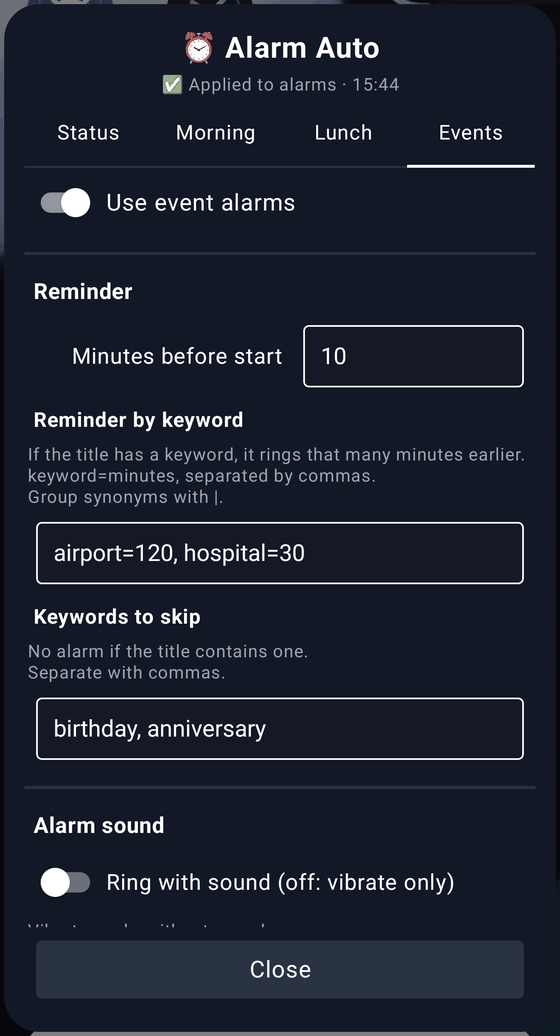
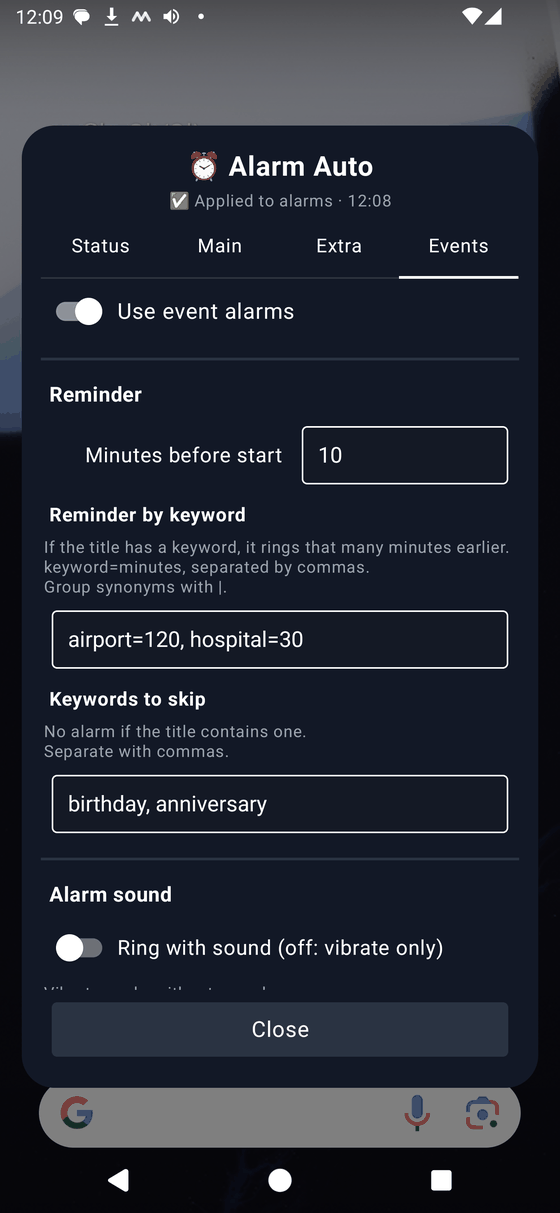
docs: Alarm Auto feature tour GIF, renamed tabs, widget FAQ
- Alarm Auto: one 70 s GIF (status → main/extra/events tabs → saving a
  calendar event creates the one-time alarm in Turbo Alarm by itself),
  new screenshots (ko/en) with the renamed tabs (Status/Main/Extra/Events)
  and one-time alarm names that carry the event start time.
- FAQ: widgets reconnect by themselves after an update.

diff --git a/docs/GUIDE.ko.md b/docs/GUIDE.ko.md
@@ -90,15 +90,17 @@
 
 **Turbo Alarm** 앱의 알람을 요일·캘린더·공휴일에 맞춰 알아서 켜고 끄고 만들어요. 필요: Turbo Alarm 앱, **캘린더** 권한. 캘린더(구글·삼성)와 공휴일 캘린더는 폰마다 알아서 골라요.
 
+실제로 쓰는 모습이에요(기다리는 부분만 잘라 냄): ① 타일로 열어 **현황** → ② **기본** 탭에서 일요일을 켜고 18:00으로 바꾸면 현황과 Turbo Alarm에 바로 반영 → ③ **추가** 탭에서 추가 알림을 켜고 [지금 울려보기] → ④ **일정** 탭 → ⑤ **캘린더에 일정(내일 10:00 치과 예약)을 저장하면** 현황에 일정 알람이 뜨고, Turbo Alarm에 **"(일회성)10:00 치과 예약"** 알람이 10분 전(9:50)으로 저절로 만들어져요.
+
+<img src="img/ko/alarm_tour.gif" width="360">
+
 ### 처음 설정
 
 1. Turbo Alarm이 없으면 창을 열 때 설치 안내가 떠요 → [설치하기]로 Play 스토어에서 설치하고, Turbo Alarm을 한 번 열어 첫 안내를 넘기고 알림 권한을 허용해요.
-2. **아침** 탭의 **알람 이름**(기본 "출근 알람"): 매크로는 Turbo Alarm에서 이 이름의 알람을 켜고 끄고 시각을 바꿔요. 처음에 설정 창을 한 번 열었다 **닫으면** Turbo Alarm에 이 이름의 아침 알람을 만들어 줘요(Turbo Alarm을 나중에 깔아도 그 뒤 창을 닫으면 만들어요). 이름을 바꾸면 새 이름으로 다시 만들고 예전 것은 지워요. 이름은 **이 칸에서만** 바꿔 주세요 — Turbo Alarm 앱에서 바꾸거나 지우면 매크로가 그 알람을 찾지 못해요('아침 알람을 확인해 주세요' 알림). 그럴 땐 아침 탭의 **[Turbo에 다시 만들기]**를 누르면 이 이름으로 다시 만들어요.
-3. **아침** 탭: 요일별 켜기·시각(24시간제), 알람 소리·음량·진동, 쉬는 날 키워드(예: 연차, 휴가 — 그날은 아침·점심 알람을 꺼요), 공휴일에도 끄기, 휴일근무 키워드(그날은 일정 몇 분 전에 울림).
-4. **점심** 탭: 평일·휴일근무 날 시각(초 단위), 회사 안에 있을 때만 울리기(회사에서 [지금 위치를 회사로 지정]), [지금 울려보기].
+2. **기본** 탭의 **기본 알람 이름**(기본값 "출근 알람"): 매크로는 Turbo Alarm에서 이 이름의 알람을 켜고 끄고 시각을 바꿔요. 처음에 설정 창을 한 번 열었다 **닫으면** Turbo Alarm에 이 이름의 기본 알람을 만들어 줘요(Turbo Alarm을 나중에 깔아도 그 뒤 창을 닫으면 만들어요). 이름을 바꾸면 새 이름으로 다시 만들고 예전 것은 지워요. 이름은 **이 칸에서만** 바꿔 주세요 — Turbo Alarm 앱에서 바꾸거나 지우면 매크로가 그 알람을 찾지 못해요('기본 알람을 확인해 주세요' 알림). 그럴 땐 기본 탭의 **[Turbo에 다시 만들기]**를 누르면 이 이름으로 다시 만들어요.
+3. **기본** 탭: 요일별 켜기·시각(24시간제), 알람 소리·음량·진동, 쉬는 날 키워드(예: 연차, 휴가 — 그날은 기본 알람·추가 알림을 꺼요), 공휴일에도 끄기, 휴일근무 키워드(그날은 일정 몇 분 전에 울림).
+4. **추가** 탭(추가 알림 — 점심시간처럼 하루 한 번 더 알릴 때): 평일·휴일근무 날 시각(초 단위), 정한 장소에 있을 때만 울리기(그 장소에서 [지금 위치를 장소로 지정]), [지금 울려보기].
 5. **일정** 탭: 일정 몇 분 전, 키워드별 미리알림(예: 공항|비행기=120, 병원=30), 알람을 만들지 않을 키워드, 일정 알람 소리.
-
-<img src="img/ko/alarm_turbo.png" width="360">
 
 <img src="img/ko/alarm_morning.png" width="280"> <img src="img/ko/alarm_lunch.png" width="280">
 
@@ -106,17 +108,15 @@
 
 ### 쓰는 법
 
-- 설정을 바꾸면 1~2초 뒤 Turbo Alarm에 바로 적용돼요. **현황** 탭에서 다음 아침 알람과 7일 미리보기를 확인해요.
-- 일정 알람은 울리기 24시간 전에 Turbo Alarm에 "(일회성)시각 제목"으로 만들어지고, 일정이 바뀌면 같이 바뀌거나 지워져요.
+- 설정을 바꾸면 1~2초 뒤 Turbo Alarm에 바로 적용돼요. **현황** 탭에서 다음 기본 알람과 7일 미리보기, 추가 알림·일정 알람을 확인해요.
+- 일정 알람은 울리기 24시간 전에 Turbo Alarm에 **"(일회성)일정 시작 시각 제목"**으로 만들어지고(울리는 시각은 미리알림만큼 앞 — 10:00 일정을 10분 전에 알리면 9:50에 울림), 일정이 바뀌면 같이 바뀌거나 지워져요. 울린 일회성 알람은 다 끄면 지워져요.
 - 일정 메모에 "13시 출발", "40분 전에 알려줘", "1시간 전 준비"처럼 적으면 그 시각에 맞춰요.
 
-<img src="img/ko/alarm_status.png" width="280"> <img src="img/ko/turbo_list.png" width="280">
+<img src="img/ko/alarm_status.png" width="280"> <img src="img/ko/alarm_turbo.png" width="280">
 
-주 기능은 **캘린더 일회성 알람**이에요. 캘린더에 일정을 넣고 메모에 "15시 출발"처럼 적으면 그 시각에 맞춰, 현황에 뜨고 Turbo Alarm에 "(일회성)…" 알람으로 실제로 만들어져요.
+메모로 시각을 정하는 예: 16:00 "거래처 미팅"의 메모에 "15시 출발"이라고 적으면 15:00에 울리는 일회성 알람이 만들어져요.
 
 <img src="img/ko/alarm_calendar.png" width="280"> <img src="img/ko/alarm_calday.png" width="280">
-
-<img src="img/ko/alarm_schedule.gif" width="360">
 
 ## 6. 🧩 MD 도우미 (선택) — 설치와 Play 프로텍트 우회
 
@@ -182,5 +182,6 @@ MacroDroid의 몇몇 기능(보안 설정 쓰기, 로그캣 트리거, `dumpsys`
 
 - **창이 안 떠요**: MacroDroid 첫 화면의 스위치가 켜져 있는지, 매크로가 켜져 있는지 확인해 주세요.
 - **타일·위젯 이름이 한국어예요**(영어 폰): 이름이 고정이라 그래요. 아이콘(알람·말풍선·자동차)으로 구분해 주세요.
+- **업데이트 뒤 위젯이 안 눌려요**: 2026.10.04 판부터는 업데이트하고 몇 초 안에 위젯이 저절로 다시 이어져요. 그 판으로 올리는 첫 업데이트만, 안 되면 화면을 한 번 껐다 켜거나 타일로 한 번 열어 주세요(위젯을 지웠다 다시 놓지 않아도 돼요).
 - **알림이 안 와요**(메시지 알리미): 알림 받을 앱 이름이 알림에 보이는 이름과 같은지, 키워드 알림 스위치가 켜져 있는지 확인해 주세요.
 - 질문이나 버그는 댓글로 알려 주세요. 고맙습니다!

diff --git a/docs/GUIDE.en.md b/docs/GUIDE.en.md
@@ -92,31 +92,33 @@ Here it is in action (Korean UI on an emulator — car Bluetooth connect/disconn
 
 Turns **Turbo Alarm** alarms on and off and creates them for you, following your weekdays, calendar and public holidays. Needs the Turbo Alarm app and **calendar** permission. Your calendar and holiday calendar are picked automatically.
 
+Here it is in action (Korean UI, waiting cut out): ① open it from the tile → **Status** → ② on the **Main** tab turn on Sunday at 18:00 — Status and Turbo Alarm update right away → ③ **Extra** tab: turn on the extra alert and [Test now] → ④ **Events** tab → ⑤ **save a calendar event (tomorrow 10:00 dentist)** — the event alarm shows in Status and Turbo Alarm gets a **"(Once)10:00 dentist"** alarm set 10 minutes before (9:50) by itself.
+
+<img src="img/ko/alarm_tour.gif" width="360">
+
 ### First setup
 
 1. If Turbo Alarm isn't installed, the macro shows an install prompt → [Install] in the Play Store, open Turbo Alarm once, finish its intro and allow notifications.
-2. **Morning** tab, **Alarm name** (default "Work alarm"): the macro turns this Turbo Alarm alarm on and off and sets its time. The first time you **close** the settings window, it creates this morning alarm in Turbo Alarm for you (also if you install Turbo Alarm later). Renaming recreates it under the new name and deletes the old one. Rename it **only here** — if you rename or delete it in Turbo Alarm, the macro can't find it (a 'Please check your morning alarm' notification); tap **[Recreate in Turbo]** on the Morning tab to create it again with this name.
-3. **Morning** tab: on/off and time per weekday (24-hour), sound, volume and vibration, day-off keywords (e.g. vacation, PTO — morning and lunch alarms are off that day), also off on public holidays, extra-shift keywords (rings a set time before that event).
-4. **Lunch** tab: weekday and extra-shift times (to the second), only when at the office (tap [Set current location as office] there), [Test now].
+2. **Main** tab, **Main alarm name** (default "Work alarm"): the macro turns this Turbo Alarm alarm on and off and sets its time. The first time you **close** the settings window, it creates this main alarm in Turbo Alarm for you (also if you install Turbo Alarm later). Renaming recreates it under the new name and deletes the old one. Rename it **only here** — if you rename or delete it in Turbo Alarm, the macro can't find it (a 'Please check your main alarm' notification); tap **[Recreate in Turbo]** on the Main tab to create it again with this name.
+3. **Main** tab: on/off and time per weekday (24-hour), sound, volume and vibration, day-off keywords (e.g. vacation, PTO — the main alarm and extra alert are off that day), also off on public holidays, extra-shift keywords (rings a set time before that event).
+4. **Extra** tab (an extra alert, e.g. for lunch break): weekday and extra-shift times (to the second), only at a set place (tap [Set current location as the place] there), [Test now].
 5. **Events** tab: minutes before events, per-keyword lead times (e.g. airport|flight=120, dentist=30), keywords to skip, event alarm sound.
 
-<img src="img/en/alarm_morning.png" width="280"> <img src="img/en/alarm_events.png" width="280">
+<img src="img/en/alarm_morning.png" width="280"> <img src="img/en/alarm_lunch.png" width="280">
 
-<img src="img/ko/alarm_turbo.png" width="360">
+<img src="img/en/alarm_events.png" width="360">
 
 ### Using it
 
-- Changes are applied to Turbo Alarm within 1–2 seconds. The **Status** tab shows the next morning alarm and a 7-day preview.
-- Event alarms are created in Turbo Alarm 24 hours ahead as "(Once)time title", and change or disappear when the event changes.
+- Changes are applied to Turbo Alarm within 1–2 seconds. The **Status** tab shows the next main alarm, a 7-day preview, the extra alert and event alarms.
+- Event alarms are created in Turbo Alarm 24 hours ahead as **"(Once)start time title"** (they ring earlier by the reminder — a 10:00 event with a 10-minute reminder rings at 9:50), and change or disappear when the event changes. A one-time alarm is deleted once you dismiss it.
 - Write "leave at 1 pm", "remind me 40 min before" or "prep 1 hour before" in the event note and it uses that time.
 
-<img src="img/en/alarm_status.png" width="280"> <img src="img/en/alarm_lunch.png" width="280">
+<img src="img/en/alarm_status.png" width="280"> <img src="img/ko/alarm_turbo.png" width="280">
 
-The main feature is **one-time calendar alarms**. Add a calendar event (write "leave at 3 pm" in the note and it matches that time); it appears in Status and is really created in Turbo Alarm as a "(Once)…" alarm.
+Time from the note, for example: write "leave at 3 pm" in the note of a 4 pm "client meeting" and a one-time alarm rings at 3 pm.
 
 <img src="img/ko/alarm_calendar.png" width="280"> <img src="img/ko/alarm_calday.png" width="280">
-
-<img src="img/ko/alarm_schedule.gif" width="360">
 
 ## 6. 🧩 MD Helper (optional) — installing it past Play Protect
 
@@ -182,5 +184,6 @@ Some MacroDroid features (writing secure settings, the Logcat trigger, reading s
 
 - **Nothing opens**: check that MacroDroid's main switch and the macro are on.
 - **Tile and widget names are Korean** (English phones): they are fixed names — use the icons (alarm, chat bubble, car).
+- **A widget does nothing after an update**: from the 2026.10.04 version on, widgets reconnect by themselves a few seconds after an update. Only for the first update to that version: if it doesn't respond, turn the screen off and on once or open the macro from its tile once (no need to remove and re-add the widget).
 - **No alerts** (Message Alerts): make sure the app names match the names shown in notifications and keyword alerts are on.
 - Questions and bug reports are welcome in the comments. Thanks!
